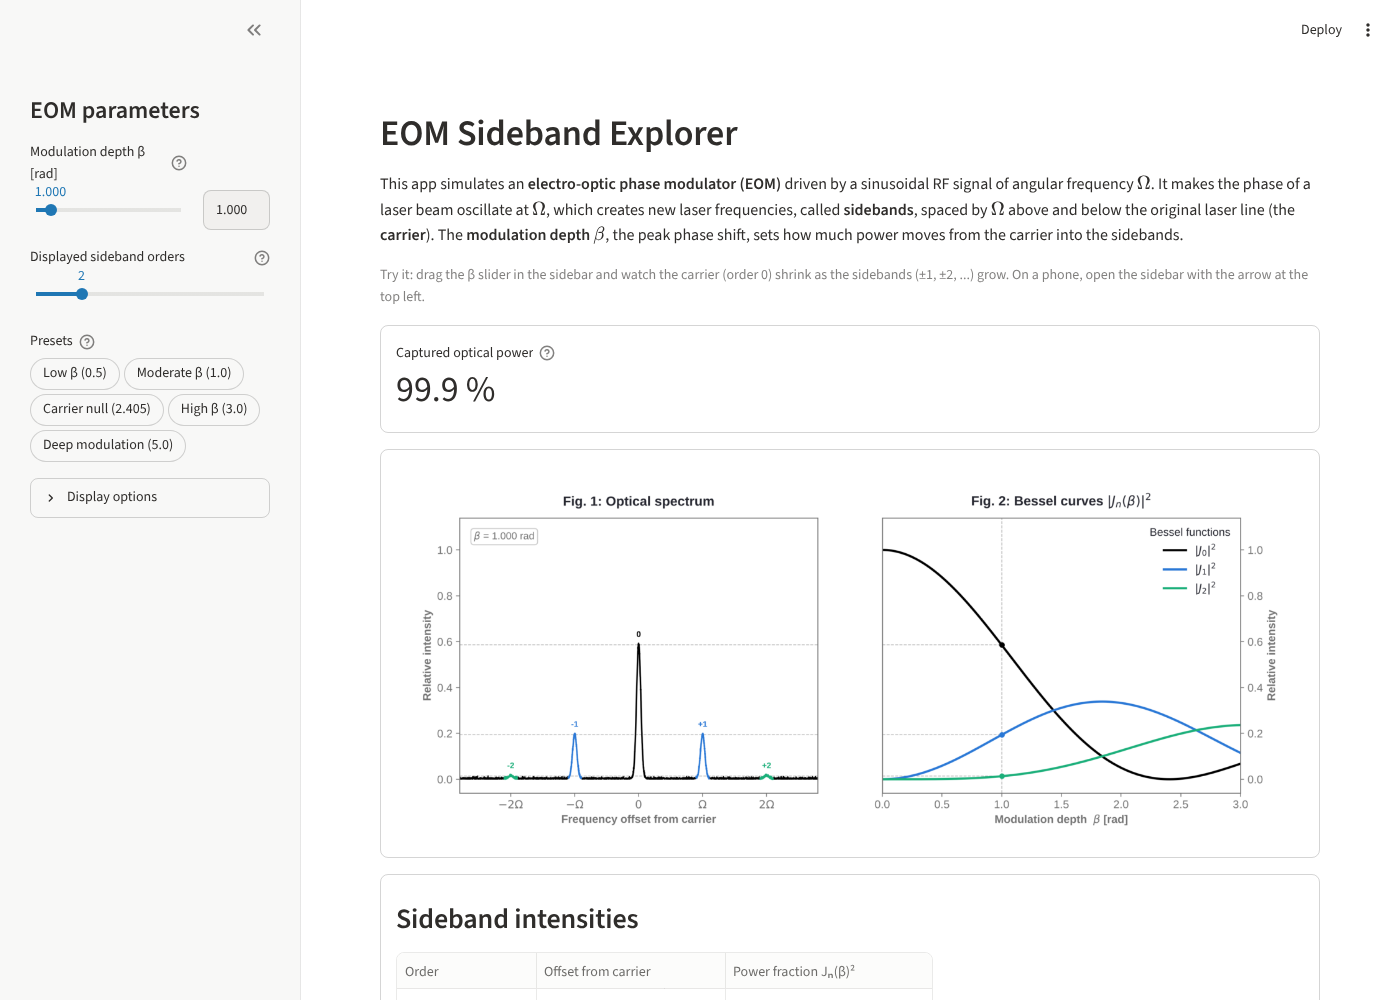
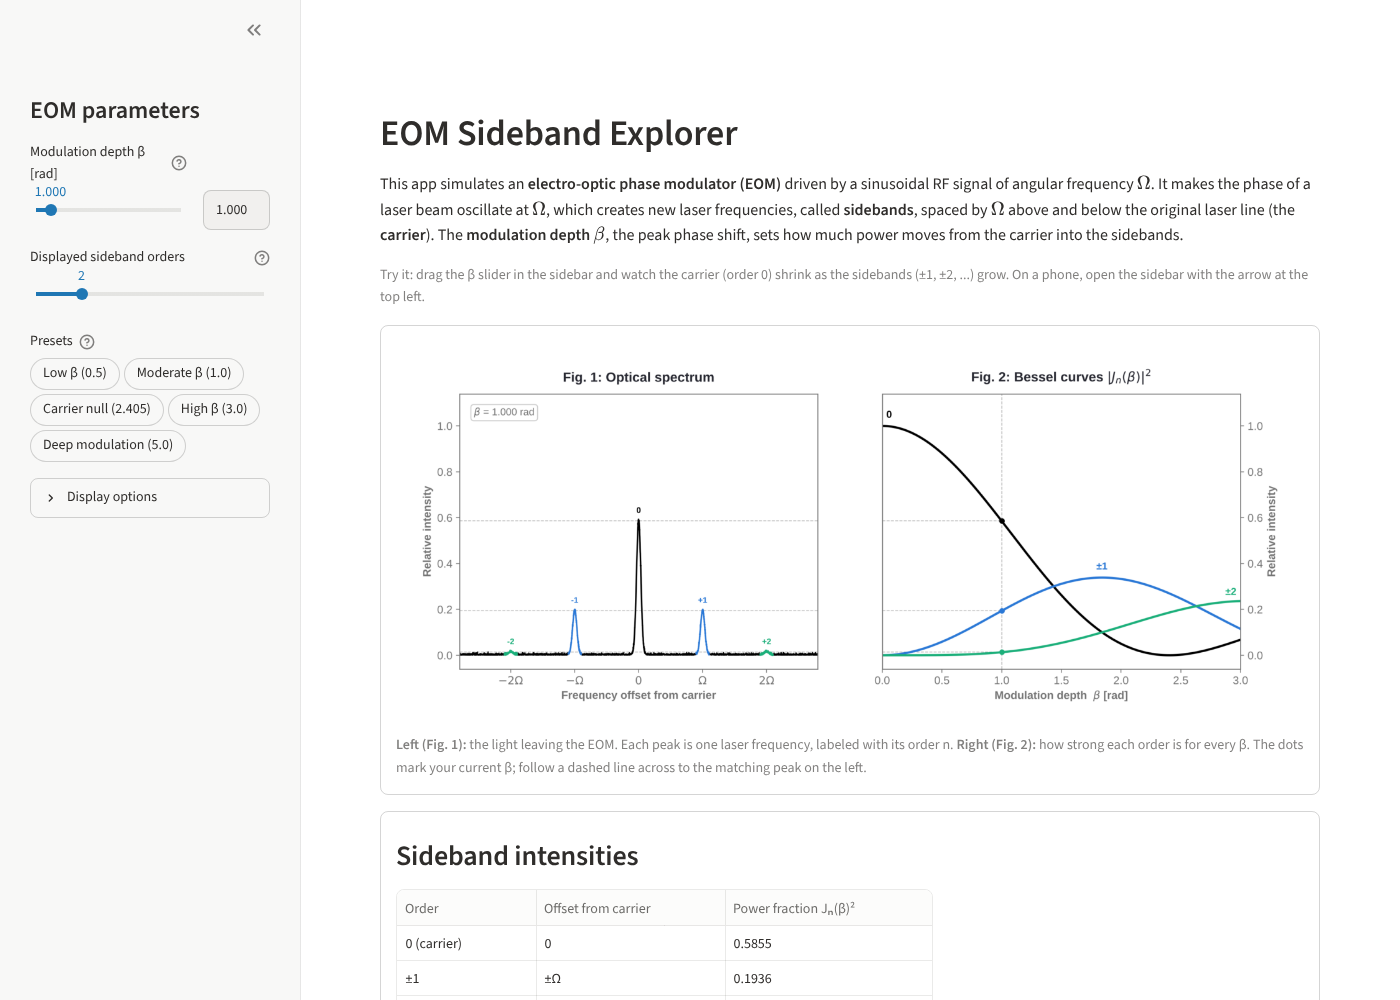
Drop the captured-power card, label Bessel curves directly, add a figure caption
The captured-power readout was easy to misread as the EOM's efficiency
and cluttered the page, so it goes together with its truncation warning.
Fig. 2 now writes each order on its curve instead of using a legend, and
a caption under the figure explains how the two panels connect.

Claude-Session: https://claude.ai/code/session_016h1wpQNDvudgS2oHwPKjCx

diff --git a/app.py b/app.py
@@ -20,16 +20,13 @@ import io
 import matplotlib
 import numpy as np
 import streamlit as st
+from matplotlib import patheffects
 from matplotlib.figure import Figure
 
 from physics import (color_for_n, sideband_intensities, intensity_vs_beta,
-                     captured_power, to_decibels, DB_FLOOR)
+                     to_decibels, DB_FLOOR)
 
 NMAX = 6        # max selectable sideband orders to display
-
-# Share of the optical power the displayed orders must hold for the spectrum to
-# count as essentially complete; below it the truncation warning is shown.
-POWER_COMPLETE = 0.98
 
 # Shared y-limits for both figures. The two panels show the same intensities
 # (|J_n(beta)|^2), so their axes must span the same range for the dashed
@@ -41,6 +38,14 @@ YLIM = (-0.06, 1.14)
 # little below the to_decibels() clipping floor (DB_FLOOR) and the top leaves
 # headroom for the order labels above the 0 dB carrier line.
 YLIM_DB = (DB_FLOOR - 4.0, 5.0)
+
+# Shown under the figure, so a first-time visitor can read the two panels and
+# their link without opening Physics & model details.
+FIGURE_CAPTION = (
+    "**Left (Fig. 1):** the light leaving the EOM. Each peak is one laser "
+    "frequency, labeled with its order n. **Right (Fig. 2):** how strong each "
+    "order is for every β. The dots mark your current β; follow a dashed line "
+    "across to the matching peak on the left.")
 
 # Preset operating points, each mapping a label to (modulation depth beta,
 # number of orders to display). The carrier-null preset sits at the first
@@ -300,11 +305,12 @@ def draw_bessel_curves(ax, *, beta, N, Jn2, fixed_xaxis, db_scale, mode, ink):
     """
     bmax = 10.0 if fixed_xaxis else max(3.0, beta * 1.1)
     bgrid = np.linspace(0, bmax, 800)
+    curves = []
     for n in range(0, N + 1):
         curve = _scale_y(intensity_vs_beta(n, bgrid), db_scale)
+        curves.append(curve)
         h = _scale_y(Jn2[n], db_scale)
-        ax.plot(bgrid, curve, color=color_for_n(n, mode), lw=2.2,
-                label=f"$|J_{{{n}}}|^2$")
+        ax.plot(bgrid, curve, color=color_for_n(n, mode), lw=2.2)
         ax.plot([0, beta], [h, h], ls='--', color=ink["hline"], lw=0.8, zorder=0)
         ax.scatter(beta, h, color=color_for_n(n, mode), s=20, zorder=3)   # operating-point marker
     ax.axvline(beta, ls='--', color=ink["hline"], lw=0.8, zorder=0)
@@ -319,9 +325,51 @@ def draw_bessel_curves(ax, *, beta, N, Jn2, fixed_xaxis, db_scale, mode, ink):
     ax.yaxis.tick_right()
     ax.set_ylabel('Relative intensity [dB]' if db_scale else 'Relative intensity',
                   fontweight='bold')
-    legend = ax.legend(title='Bessel functions', loc='upper right', frameon=False,
-                       labelcolor=ink["text"])
-    legend.get_title().set_color(ink["text"])
+    _label_curves(ax, curves, bgrid, mode, ink)
+
+
+def _curve_label(n):
+    """Return the direct label of order ``n``'s curve: ``0``, ``±1``, ``±2``, ...
+
+    One curve serves both the +n and the -n sideband, since they are equally
+    strong, so the label names both, as the intensity table does.
+    """
+    return "0" if n == 0 else f"±{n}"
+
+
+def _label_curves(ax, curves, bgrid, mode, ink):
+    """Write each Bessel curve's order directly on it, instead of a legend.
+
+    A label sits just above its curve's maximum, where the curves are spread
+    furthest apart. A curve that is still rising at the right edge of the plot
+    is labeled at that edge instead; those edge labels are nudged apart
+    vertically so they never print on top of each other. A halo in the
+    background colour keeps a label readable where another curve runs behind it.
+    """
+    ylo, yhi = ax.get_ylim()
+    min_gap = 0.07 * (yhi - ylo)
+    style = dict(fontsize=10, fontweight='bold', zorder=4,
+                 path_effects=[patheffects.withStroke(linewidth=3, foreground=ink["bg"])])
+    x_end = bgrid[-1]
+    edge = []
+    for n, curve in enumerate(curves):
+        i = int(np.argmax(curve))
+        color = color_for_n(n, mode)
+        if i == len(bgrid) - 1:
+            edge.append([curve[-1], n])
+            continue
+        x, y = bgrid[i], curve[i]
+        ha = 'left' if i == 0 else ('right' if x > 0.9 * x_end else 'center')
+        ax.annotate(_curve_label(n), (x, y), textcoords="offset points",
+                    xytext=(4 if i == 0 else 0, 6), ha=ha, va='bottom',
+                    color=color, **style)
+    edge.sort()
+    for k in range(1, len(edge)):
+        edge[k][0] = max(edge[k][0], edge[k - 1][0] + min_gap)
+    for y, n in edge:
+        ax.annotate(_curve_label(n), (x_end, y), textcoords="offset points",
+                    xytext=(-4, 4), ha='right', va='bottom',
+                    color=color_for_n(n, mode), **style)
 
 
 def build_figure(*, beta, N, Jn2, width_frac, noise, color_peaks,
@@ -414,51 +462,6 @@ def render_sidebar():
     db_scale = scale_choice == "dB"
 
     return beta, N, width_frac, noise, color_peaks, fixed_xaxis, db_scale
-
-
-def truncation_message(cap, N):
-    """Return the spectral-truncation warning for a captured-power fraction.
-
-    The advice to display more orders is appended only while the slider has
-    room left: at ``N == NMAX`` there is nothing to increase, so the message
-    states the shortfall and stops rather than pointing at a setting that does
-    not exist.
-
-    Parameters
-    ----------
-    cap : float
-        Fraction of the optical power held by the displayed orders, from
-        :func:`physics.captured_power`.
-    N : int
-        Highest displayed sideband order, i.e. the current slider position.
-
-    Returns
-    -------
-    str
-        The warning body, as Markdown.
-    """
-    message = (f"**Spectral truncation:** {(1 - cap) * 100:.0f}% of the optical "
-               f"power falls outside the displayed orders.")
-    if N < NMAX:
-        message += (" Increase the number of displayed sideband orders to view "
-                    "the entire relevant spectrum.")
-    return message
-
-
-def render_metrics(Jn2, N):
-    """Show the captured-power metric, plus a warning if the spectrum is truncated."""
-    with st.container(border=True):
-        col_left, col_right = st.columns([1, 2])
-        with col_left:
-            cap = captured_power(Jn2)
-            st.metric("Captured optical power", f"{cap*100:.1f} %",
-                      help="Share of the total optical power in the lines shown. "
-                           "The rest sits in higher orders that are not drawn.")
-        with col_right:
-            # Only speak up when something needs doing; a complete spectrum
-            # is already evident from the metric itself.
-            if cap < POWER_COMPLETE:
-                st.warning(truncation_message(cap, N), icon=":material/warning:")
 
 
 def render_intensity_table(Jn2, N):
@@ -617,10 +620,9 @@ def main():
                "(order 0) shrink as the sidebands (±1, ±2, ...) grow. "
                "On a phone, open the sidebar with the arrow at the top left.")
 
-    render_metrics(Jn2, N)
-
     with st.container(border=True):
         st.image(figure_png(fig), width="stretch")
+        st.caption(FIGURE_CAPTION)
 
     render_intensity_table(Jn2, N)
     render_physics_details()

diff --git a/test_app.py b/test_app.py
@@ -6,9 +6,6 @@ the dashed guide line drawn at a peak in Fig. 1 lands exactly on that order's
 marker in Fig. 2. The linear/dB toggle is the thing most able to break it, so
 it is exercised on both settings.
 
-The spectral-truncation message is checked here too, since its advice must
-never point at a setting the sidebar cannot reach.
-
 The figures are built without pyplot and rendered off-screen, so the suite
 needs no display or browser.
 """
@@ -21,8 +18,8 @@ from matplotlib.colors import to_rgba
 from matplotlib.text import Text
 from PIL import Image
 
-from app import (NMAX, PRESETS, YLIM, YLIM_DB, build_figure, figure_png,
-                 theme_ink, truncation_message)
+from app import (PRESETS, YLIM, YLIM_DB, build_figure, figure_png,
+                 theme_ink)
 from physics import sideband_intensities
 
 # Every preset operating point, on both y-scales.
@@ -83,16 +80,15 @@ def test_nothing_drawn_is_infinite(beta, N, db_scale):
             assert np.all(np.isfinite(np.atleast_1d(line.get_ydata())))
 
 
-@pytest.mark.parametrize("N", range(1, NMAX + 1))
-def test_truncation_message_only_advises_while_the_slider_has_room(N):
-    """The "display more orders" advice must disappear once the slider is maxed.
-
-    Below the maximum it has to be present, since it is the whole reason the
-    warning is worth reading.
-    """
-    message = truncation_message(0.75, N)
-    assert message.startswith("**Spectral truncation:** 25% of the optical power")
-    assert ("Increase the number of displayed sideband orders" in message) == (N < NMAX)
+@pytest.mark.parametrize("beta, N, db_scale", CASES)
+def test_every_bessel_curve_is_labeled_directly(beta, N, db_scale):
+    """Fig. 2 names each curve on the plot itself, once per order, with no legend."""
+    fig = _figure(beta, N, db_scale)
+    ax2 = fig.axes[1]
+    labels = sorted(t.get_text() for t in ax2.texts)
+    expected = sorted(["0"] + [f"±{n}" for n in range(1, N + 1)])
+    assert labels == expected
+    assert ax2.get_legend() is None
 
 
 @pytest.mark.parametrize("mode", ["light", "dark"])

diff --git a/test_streamlit_app.py b/test_streamlit_app.py
@@ -25,12 +25,11 @@ def _run(**state):
 
 
 def _assert_clean(at):
-    """Fail if the run raised or showed anything but the app's own alerts."""
+    """Fail if the run raised or showed any warning."""
     assert not at.exception, [e.value for e in at.exception]
-    # The truncation warning is the app's only intended st.warning; anything
-    # else (for example a deprecation notice from Streamlit) is a regression.
-    stray = [w.value for w in at.warning
-             if not w.value.startswith("**Spectral truncation:**")]
+    # The app shows no st.warning of its own, so any warning (for example a
+    # deprecation notice from Streamlit) is a regression.
+    stray = [w.value for w in at.warning]
     assert not stray, stray
 
 

diff --git a/README.md b/README.md
@@ -16,7 +16,8 @@ the optical spectrum and the underlying Bessel functions update side by side.
 
 - **Two linked views.** The optical spectrum (Fig. 1) and the Bessel curves
   *|Jₙ(β)|²* (Fig. 2), with a marker showing how each peak height is a slice
-  through the Bessel curves at your chosen *β*.
+  through the Bessel curves at your chosen *β*. Each curve carries its order
+  directly on the plot, and a short caption explains how to read both panels.
 - **Live controls** for modulation depth *β* and the number of sideband orders
   to display. The modulation frequency *Ω* only sets the line spacing, so the
   spectrum's frequency axis is labelled in units of it (0, ±Ω, ±2Ω, ...).
@@ -25,8 +26,6 @@ the optical spectrum and the underlying Bessel functions update side by side.
 - **Linear / dB y-axis toggle** (under Display options) that switches both
   figures together, keeping their guide lines aligned, so the weaker sideband
   orders become visible instead of collapsing onto zero.
-- **Captured-power readout** that warns how much of the optical power falls
-  outside the displayed orders when they miss part of the spectrum.
 - **Exact intensity table** of *Jₙ(β)²* per sideband for each order.
 - **Colourblind-safe, theme-aware figures** that follow Streamlit's light/dark
   mode.
